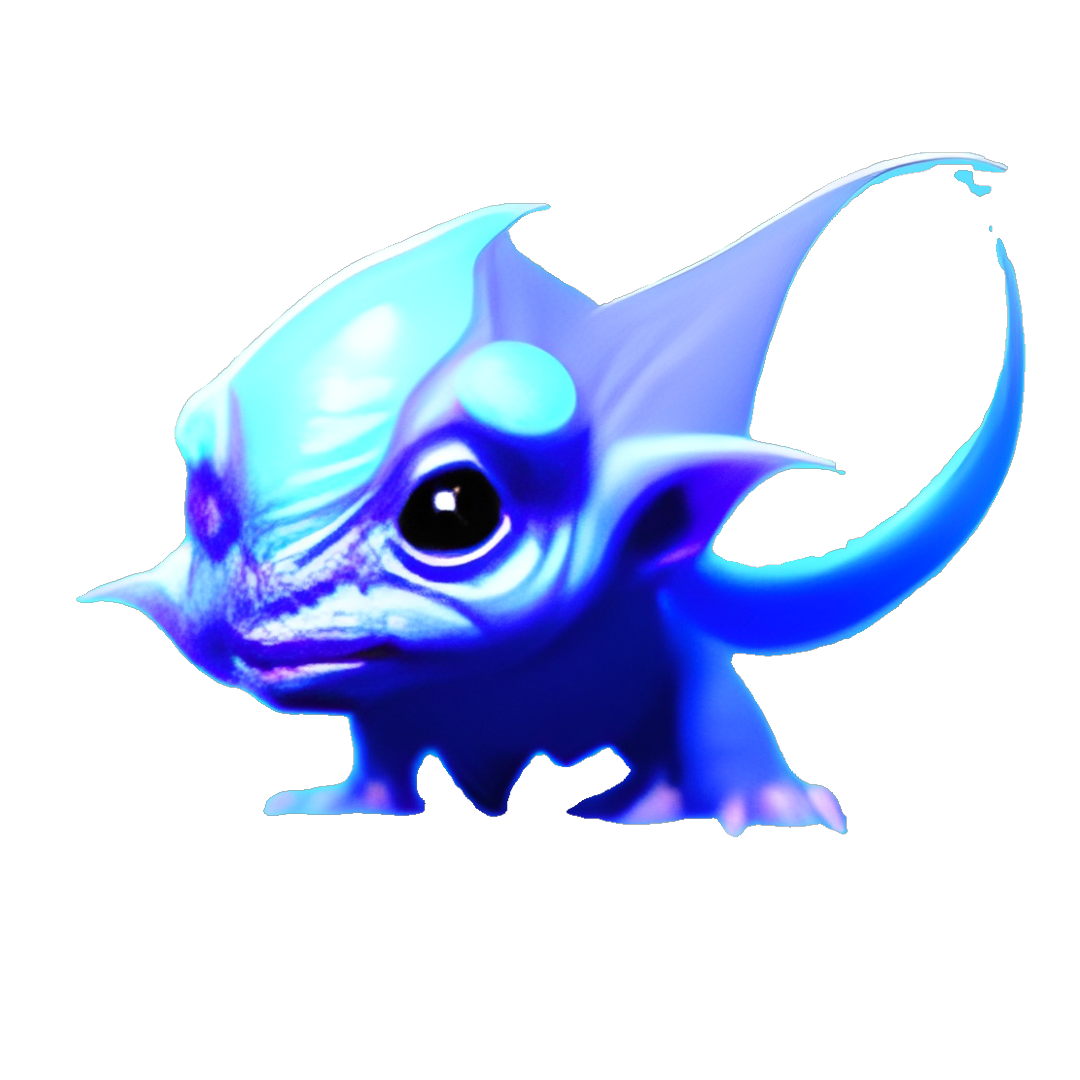
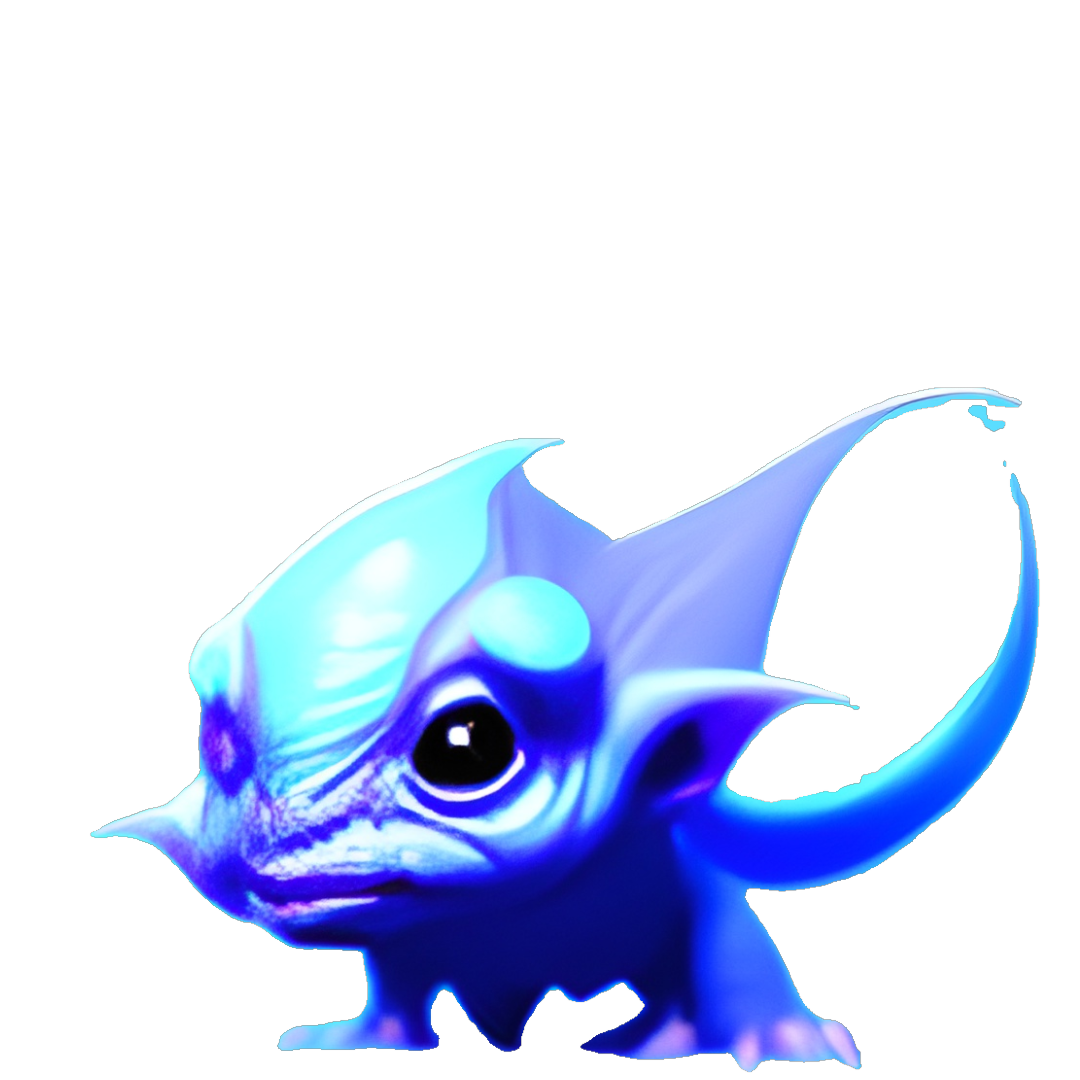
level system and grafics

diff --git a/pages/index.js b/pages/index.js
@@ -5,6 +5,8 @@ import AvatarStatus from "@/components/AvatarStatus";
 import { enemyLibrary } from "@/library/enemyLibrary";
 import EnemyAvatar from "@/components/EnemyAvatar";
 import EnemyStatus from "@/components/EnemyStatus";
+import LevelBackgroundImage from "@/components/LevelBackgroundImage";
+import { levelLibrary } from "@/library/levelLibrary";
 
 // ############## Dummy Data #######################
 const library = [
@@ -24,6 +26,25 @@ const library = [
     question: "Fahrrad",
     answer: "bicycle",
   },
+  {
+    question: "Eine Flasche Wasser",
+    answer: "a bottle of water",
+  },
+  {
+    question:
+      "Javascript array method that returns a new array iterator object that contains the key/value pairs for each index in the array.",
+    answer: "entries",
+  },
+  {
+    question:
+      "Javascript array method that applies a function against an accumulator and each value of the array (from right-to-left) to reduce it to a single value.",
+    answer: "reduceright",
+  },
+  {
+    question:
+      "changes the contents of an array by removing or replacing existing elements and/or adding new elements in place.",
+    answer: "splice",
+  },
 ];
 const userData = {
   health: 90,
@@ -32,6 +53,8 @@ const userData = {
 
 export default function HomePage() {
   const [currentEnemyIndex, setcurrentEnemyIndex] = useState(0);
+  const [currentLevel, setCurrentLevel] = useState(levelLibrary[0]);
+  const [currentLevelIndex, setCurrentLevelIndex] = useState(0);
   const [currentEnemy, setcurrentEnemy] = useState(
     enemyLibrary[currentEnemyIndex]
   );
@@ -57,6 +80,13 @@ export default function HomePage() {
       setEnemyHealth((prevEnemyHealth) => prevEnemyHealth - damage);
     } else {
       setcurrentEnemyIndex((prevEnemyIndex) => prevEnemyIndex + 1);
+      setCurrentLevelIndex((prevLevelIndex) => prevLevelIndex + 1);
+      if (levelLibrary[currentLevelIndex]) {
+        setCurrentLevel(levelLibrary[currentLevelIndex]);
+      } else {
+        setCurrentLevelIndex(0);
+        setCurrentLevel(levelLibrary[0]);
+      }
       if (enemyLibrary[currentEnemyIndex]) {
         setcurrentEnemy(enemyLibrary[currentEnemyIndex]);
       } else {
@@ -75,6 +105,7 @@ export default function HomePage() {
   }
   return (
     <div>
+      <LevelBackgroundImage level={currentLevel} />
       <Question question={currentCard.question} />
       <EnemyAvatar currentEnemy={currentEnemy} />
       <EnemyStatus enemyHealth={enemyHealth} />

diff --git a/library/levelLibrary.js b/library/levelLibrary.js
@@ -1,0 +1,86 @@
+export const levelLibrary = [
+  {
+    level: 1,
+    stage: 1,
+    name: "the meadows",
+    img: "/assets/landscapes/level0101.jpeg",
+  },
+  {
+    level: 1,
+    stage: 2,
+    name: "the meadows",
+    img: "/assets/landscapes/level0102.jpeg",
+  },
+  {
+    level: 1,
+    stage: 3,
+    name: "the meadows",
+    img: "/assets/landscapes/level0103.jpeg",
+  },
+  {
+    level: 1,
+    stage: 4,
+    name: "the meadows",
+    img: "/assets/landscapes/level0104.jpeg",
+  },
+  {
+    level: 1,
+    stage: 5,
+    name: "the meadows",
+    img: "/assets/landscapes/level0105.jpeg",
+  },
+  {
+    level: 2,
+    stage: 1,
+    name: "the mountains",
+    img: "/assets/landscapes/level0201.jpeg",
+  },
+  {
+    level: 3,
+    stage: 1,
+    name: "the icelands",
+    img: "/assets/landscapes/level0301.jpeg",
+  },
+  {
+    level: 4,
+    stage: 1,
+    name: "the caves",
+    img: "/assets/landscapes/level0401.jpeg",
+  },
+  {
+    level: 4,
+    stage: 2,
+    name: "the caves",
+    img: "/assets/landscapes/level0402.jpeg",
+  },
+  {
+    level: 4,
+    stage: 3,
+    name: "the caves",
+    img: "/assets/landscapes/level0403.jpeg",
+  },
+  {
+    level: 5,
+    stage: 1,
+    name: "the dark forest",
+    img: "/assets/landscapes/level0501.jpeg",
+  },
+  {
+    level: 5,
+    stage: 2,
+    name: "the dark forest",
+    img: "/assets/landscapes/level0502.jpeg",
+  },
+  {
+    level: 5,
+    stage: 3,
+    name: "the dark forest",
+    img: "/assets/landscapes/level0503.jpeg",
+  },
+  {
+    level: 5,
+    stage: 4,
+    name: "the dark forest",
+    img: "/assets/landscapes/level0504.jpeg",
+  },
+];

diff --git a/library/enemyLibrary.js b/library/enemyLibrary.js
@@ -6,57 +6,57 @@ export const enemyLibrary = [
   },
   {
     name: "Dragonlord",
-    health: 50,
+    health: 90,
     img: "/assets/creatures/creature0102.png",
   },
   {
     name: "Ghost of the Wood",
-    health: 60,
+    health: 160,
     img: "/assets/creatures/creature0103.png",
   },
   {
     name: "Goblin of the Wood",
-    health: 30,
+    health: 130,
     img: "/assets/creatures/creature0104.png",
   },
   {
     name: "Ice Goblin",
-    health: 20,
+    health: 120,
     img: "/assets/creatures/creature0201.png",
   },
   {
     name: "Ice Goblin",
-    health: 50,
+    health: 150,
     img: "/assets/creatures/creature0202.png",
   },
   {
     name: "Green Ork",
-    health: 60,
+    health: 160,
     img: "/assets/creatures/creature0203.png",
   },
   {
     name: "Ice Goblin",
-    health: 70,
+    health: 170,
     img: "/assets/creatures/creature0204.png",
   },
   {
     name: "Ghost of the Forest",
-    health: 70,
+    health: 170,
     img: "/assets/creatures/creature0301.png",
   },
   {
     name: "Blue Goblin",
-    health: 70,
+    health: 170,
     img: "/assets/creatures/creature0302.png",
   },
   {
     name: "Shazaar, the Elf",
-    health: 70,
+    health: 170,
     img: "/assets/creatures/creature0303.png",
   },
   {
     name: "Murcha, the Trollhunter",
-    health: 70,
+    health: 170,
     img: "/assets/creatures/creature0304.png",
   },
 ];

diff --git a/components/Question.js b/components/Question.js
@@ -1,23 +1,33 @@
 import styled from "styled-components";
 
 const StyledQuestion = styled.div`
+  top: 20%;
+  left: 10%;
+
   display: flexbox;
-  border-radius: 5%;
+  position: absolute;
+  border: 4px solid #2651a6;
+  margin: 0 auto;
+  -webkit-border-radius: 20px;
+  -moz-border-radius: 20px;
+  border-radius: 20px;
   justify-content: center;
-  height: 300px;
-  width: 100%;
-  background-color: yellow;
-  padding: 2rem;
+  height: fit-content;
+  width: fit-content;
+  background-color: rgba(225, 235, 0, 0.9);
+  padding: 0.5rem;
   color: black;
-  font-size: 2rem;
+  font-size: 1rem;
   font-weight: bold;
   margin-bottom: 2rem;
+  &:after {
+    object-fit: cover;
+  }
 `;
 
 export default function Question({ question }) {
   return (
     <>
-      <h1>TRANSLATE:</h1>
       <StyledQuestion>{question}</StyledQuestion>
     </>
   );

diff --git a/components/LevelBackgroundImage.js b/components/LevelBackgroundImage.js
@@ -1,0 +1,25 @@
+import Image from "next/image";
+import styled from "styled-components";
+
+const StyledBackground = styled(Image)`
+  position: absolute;
+  z-index: -2;
+  top: 4rem;
+  left: 0;
+  width: 100vw;
+  height: auto;
+  object-fit: cover;
+`;
+export default function LevelBackgroundImage({ level }) {
+  return (
+    <>
+      <h1>{level.name}</h1>
+      <StyledBackground
+        src={level.img}
+        alt="Level Image"
+        width="400"
+        height="400"
+      />
+    </>
+  );
+}

diff --git a/components/EnemyStatus.js b/components/EnemyStatus.js
@@ -1,16 +1,16 @@
 import styled from "styled-components";
-import { useEffect } from "react";
+
 import { HealthProgress } from "./StyledProgress";
 
 const StyledEnemyStats = styled.div`
   position: absolute;
   left: 7rem;
-  top: 22rem;
+  top: 28rem;
 `;
 export default function EnemyStatus({ enemyHealth }) {
   return (
     <StyledEnemyStats>
-      <HealthProgress value={enemyHealth} max="100" />
+      <HealthProgress value={enemyHealth} max={200} />
     </StyledEnemyStats>
   );
 }

diff --git a/components/AvatarStatus.js b/components/AvatarStatus.js
@@ -3,11 +3,16 @@ import { HealthProgress, ArmorProgress } from "./StyledProgress";
 
 const StyledStatusBox = styled.div`
   display: flex;
+  position: relative;
+  margin-top: 26rem;
+
   flex-direction: column;
   align-items: center;
   border: 3px solid grey;
   background-color: lightgrey;
   padding: 0.5rem;
+  width: fit-content;
+  margin-left: auto;
 `;
 
 export default function AvatarStatus({ health, armor }) {

diff --git a/styles.js b/styles.js
@@ -4,8 +4,11 @@ export default createGlobalStyle`
   *,
   *::before,
   *::after {
+  
     box-sizing: border-box;
-    max-width:400px;
+    max-width: 400px;
+    
+    
   }
 
   body {
@@ -13,6 +16,7 @@ export default createGlobalStyle`
     margin: 0;
     font-family: system-ui;
     display:flexbox;
+    
     justify-content:center;
     text-align: center;
     background-color: black;

diff --git a/components/Answer.js b/components/Answer.js
@@ -3,6 +3,7 @@ import { useState, useEffect, useRef } from "react";
 
 const InputFieldLayout = styled.div`
   display: flexbox;
+  margin-top: 1rem;
   justify-content: center;
   width: 100vw;
 `;
@@ -98,7 +99,6 @@ export default function Answer({
 
   return (
     <>
-      <h1>ANSWER:</h1>
       <InputFieldLayout>
         {answerArray.map((letter, index) => (
           <StyledInput

diff --git a/components/EnemyAvatar.js b/components/EnemyAvatar.js
@@ -4,7 +4,7 @@ import styled from "styled-components";
 const StyledAvatar = styled(Image)`
   position: absolute;
   object-fit: contain;
-  top: 10rem;
+  top: 15rem;
   left: 5rem;
 `;
 
@@ -17,7 +17,6 @@ export default function EnemyAvatar({ currentEnemy }) {
         width="200"
         height="200"
       />
-      <p>{currentEnemy.name}</p>
     </>
   );
 }

diff --git a/pages/_app.js b/pages/_app.js
@@ -8,6 +8,7 @@ export default function App({ Component, pageProps }) {
         <title>Journey of Wisdom</title>
       </Head>
       <GlobalStyle />
+
       <Component {...pageProps} />
     </>
   );
